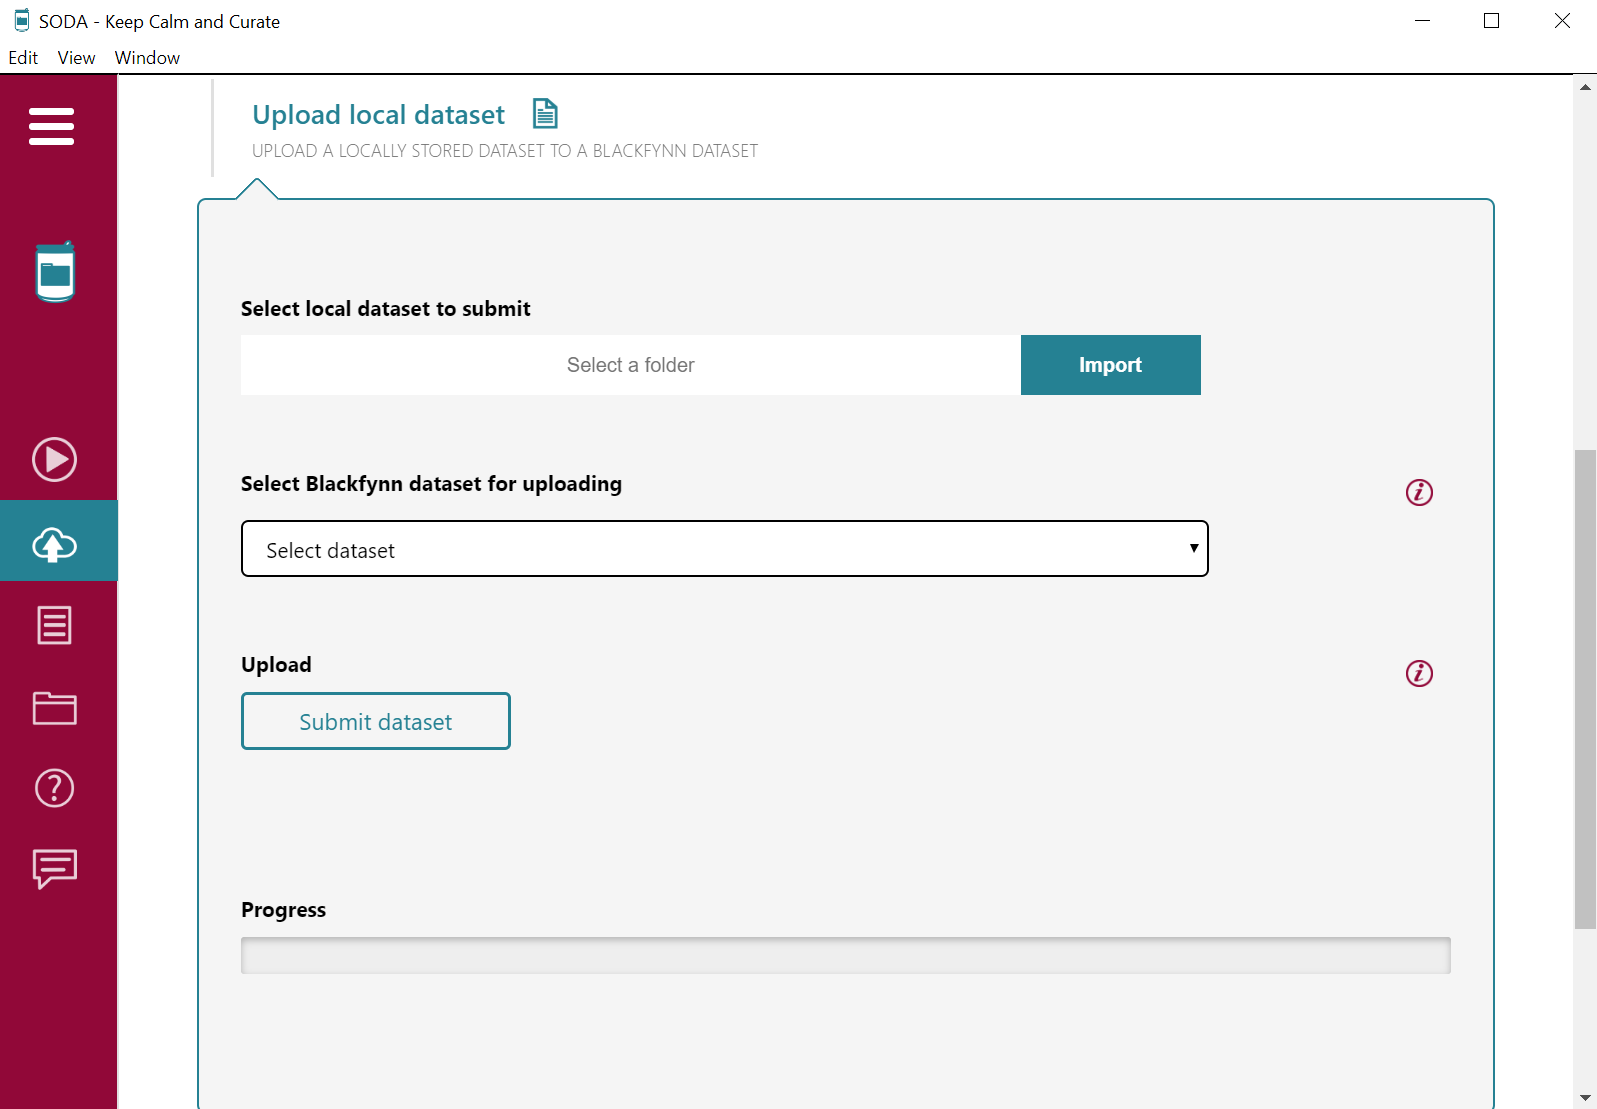
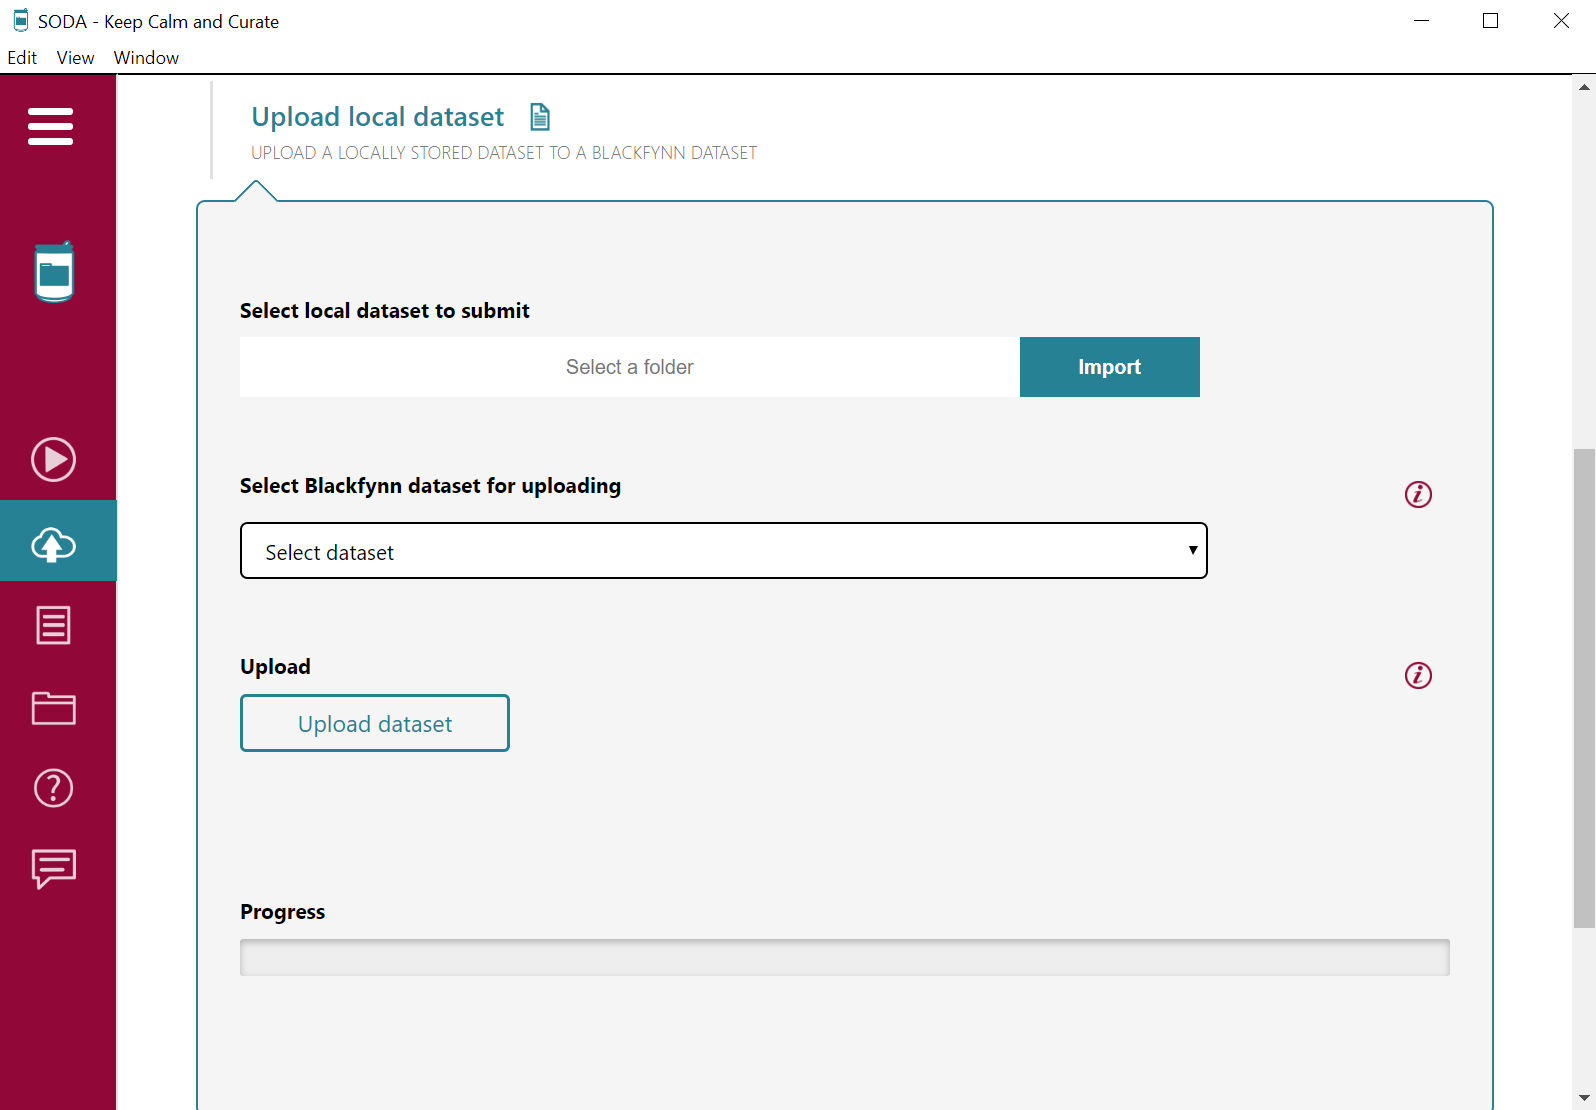
Edit to upload local datasets

diff --git a/src/sections/manage_submit/manage_submit.html b/src/sections/manage_submit/manage_submit.html
@@ -598,12 +598,12 @@ my-dropdown<!DOCTYPE html>
             <h5> Upload
               <div class="tooltipnew"><img class="info" src="assets/img/info.png">
                 <span class="tooltiptext">
-                Click on "Submit dataset" to push all the files/folders from the selected local folder into the selected Blackfynn dataset. Local folder structure will be preserved. The progress bar located below will provide a live update on the upload.
+                Click on "Upload dataset" to push all the files/folders from the selected local folder into the selected Blackfynn dataset. Local folder structure will be preserved. The progress bar located below will provide a live update on the upload.
                 </span>
               </div>
             </h5>
             <div>
-            <button id="button-submit-dataset" class="demo-button"> Submit dataset </button>
+            <button id="button-submit-dataset" class="demo-button"> Upload dataset </button>
             <p id='para-please-wait-manage-dataset'></p>
             </div>
             <p id='para-progress-bar-error-status'> <p>
